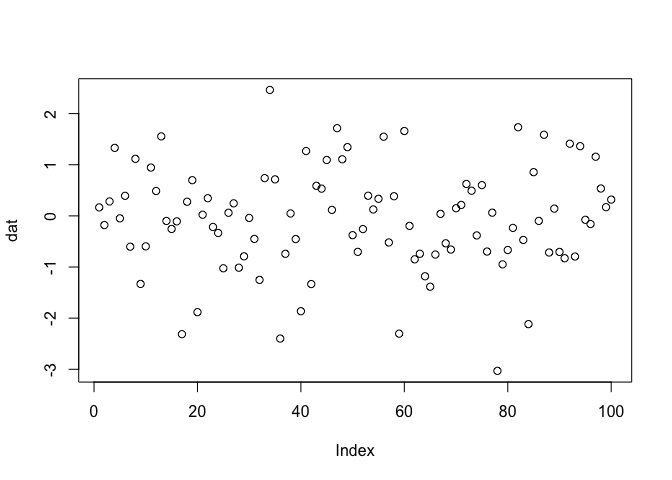
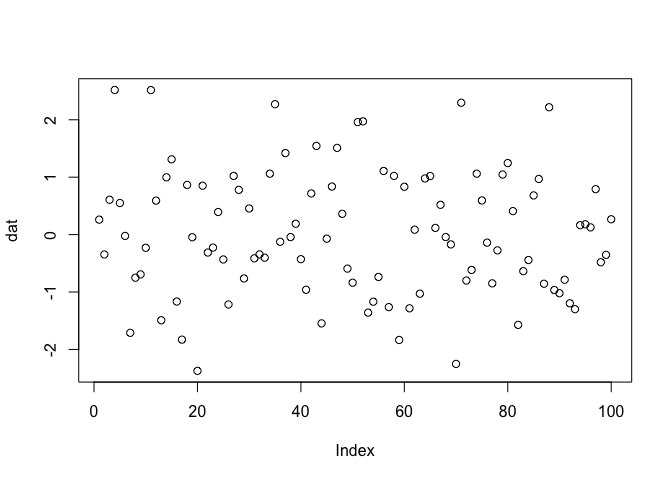
update readme

diff --git a/README.md b/README.md
@@ -18,7 +18,7 @@ far I have come across.
 
 ### Testing
 
-2021-09-24 14:55:41 UTC
+2021-09-24 15:11:23 UTC
 
     dat=rnorm(100)
 
